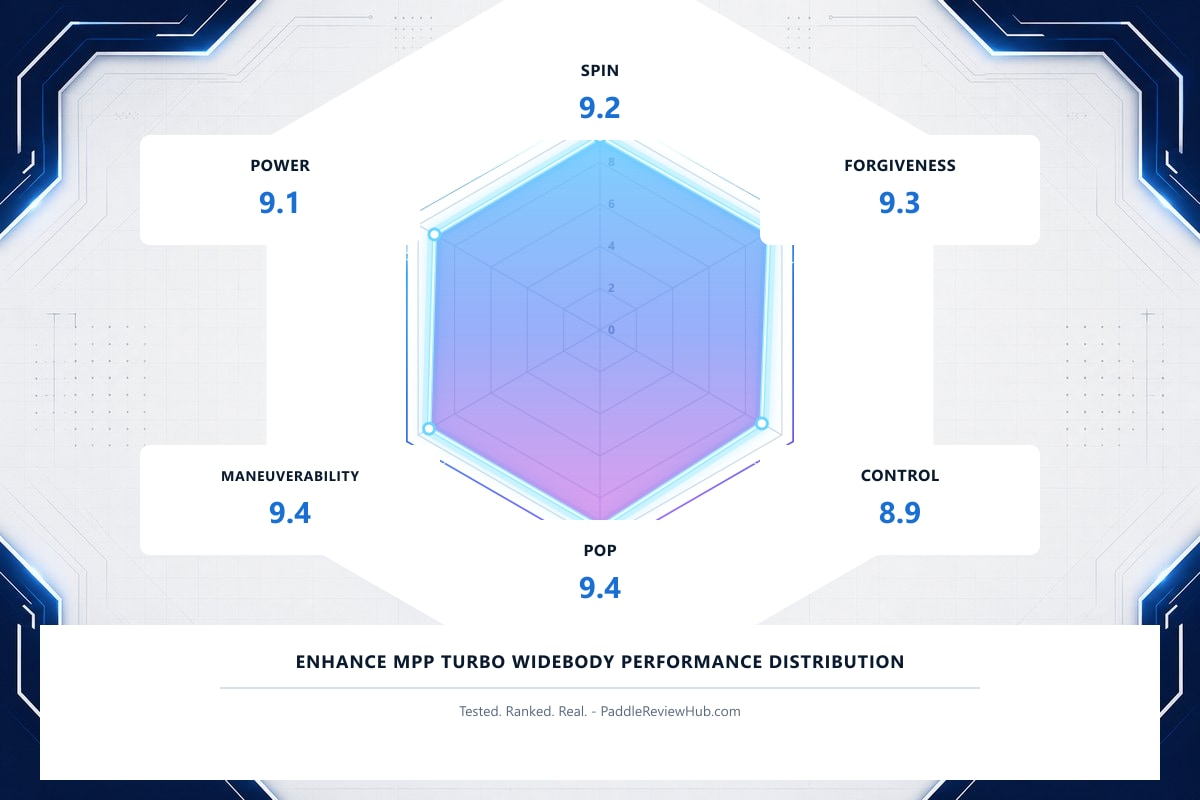
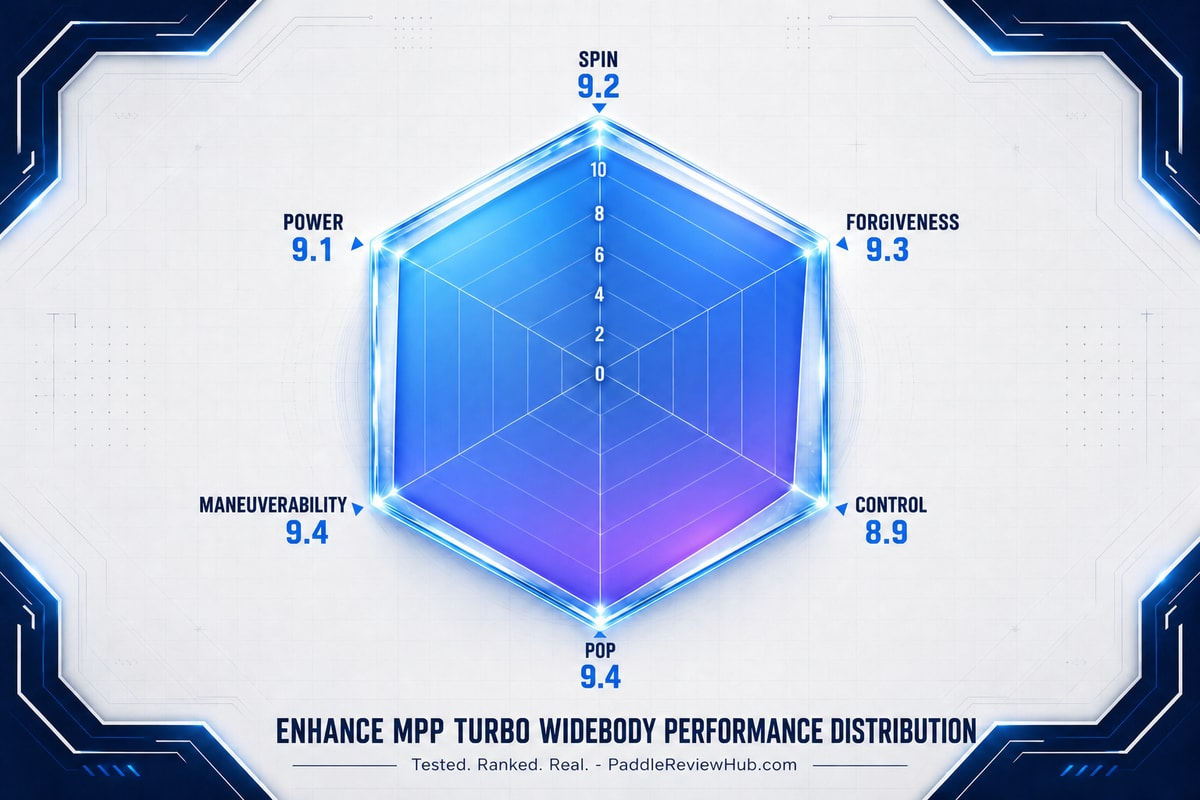
Regen all paddle radars with J2CR-style AI prompts.

diff --git a/scripts/package-ai-radars.ts b/scripts/package-ai-radars.ts
@@ -1,0 +1,166 @@
+/**
+ * 把 J2CR-style AI 雷達圖整理進 public/paddles，
+ * 同分數變體只改標題（不清分數，避免雙重文字）。
+ * 用法：npx tsx scripts/package-ai-radars.ts
+ */
+import fs from "node:fs";
+import path from "node:path";
+import sharp from "sharp";
+
+const ASSETS = path.join(
+  process.env.USERPROFILE || "",
+  ".cursor/projects/c-Users-user-PickleballWeb/assets",
+);
+const OUT = path.join(process.cwd(), "public", "paddles");
+
+function escapeXml(s: string) {
+  return s
+    .replace(/&/g, "&amp;")
+    .replace(/</g, "&lt;")
+    .replace(/>/g, "&gt;")
+    .replace(/"/g, "&quot;");
+}
+
+async function resizeFromAssets(srcName: string, destName: string) {
+  const src = path.join(ASSETS, srcName);
+  if (!fs.existsSync(src)) throw new Error(`缺少：${src}`);
+  const dest = path.join(OUT, destName);
+  await sharp(src)
+    .resize(1200, 800, { fit: "cover", position: "centre" })
+    .jpeg({ quality: 90, mozjpeg: true })
+    .toFile(dest);
+  console.log("COPY", destName);
+  return dest;
+}
+
+/** 只蓋底部標題區，分數完全不動 */
+async function retitle(
+  basePath: string,
+  destName: string,
+  title: string,
+  credit: string,
+) {
+  const bg = "#ffffff";
+  const svg = `<?xml version="1.0" encoding="UTF-8"?>
+<svg xmlns="http://www.w3.org/2000/svg" width="1200" height="800" viewBox="0 0 1200 800">
+  <rect x="55" y="620" width="1090" height="130" fill="${bg}"/>
+  <text x="600" y="665" text-anchor="middle" fill="#0a1a2e" font-size="18" font-weight="800" font-family="Segoe UI, Helvetica, Arial, sans-serif" letter-spacing="0.8">${escapeXml(title)}</text>
+  <line x1="240" y1="685" x2="960" y2="685" stroke="#c5d0e0" stroke-width="1.3"/>
+  <text x="600" y="715" text-anchor="middle" fill="#5a6a80" font-size="14" font-family="Segoe UI, Helvetica, Arial, sans-serif">${escapeXml(credit)}</text>
+</svg>`;
+  const overlay = await sharp(Buffer.from(svg)).png().toBuffer();
+  const dest = path.join(OUT, destName);
+  await sharp(basePath)
+    .composite([{ input: overlay, top: 0, left: 0 }])
+    .jpeg({ quality: 90, mozjpeg: true })
+    .toFile(dest);
+  console.log("TITLE", destName);
+}
+
+const PRH = "Tested. Ranked. Real. - PaddleReviewHub.com";
+
+async function main() {
+  fs.mkdirSync(OUT, { recursive: true });
+
+  // 直接對應的成品
+  await resizeFromAssets(
+    "enhance-mpp-widebody-radar.jpg",
+    "enhance-mpp-widebody-radar.jpg",
+  );
+  await resizeFromAssets(
+    "enhance-mpp-elongated-radar.jpg",
+    "enhance-mpp-elongated-radar.jpg",
+  );
+  // J6CR 已用同 prompt 產過，若 assets 有新版則覆蓋；否則保留 public
+  const j6Asset = path.join(ASSETS, "honolulu-j6cr-radar.jpg");
+  if (fs.existsSync(j6Asset)) {
+    await resizeFromAssets("honolulu-j6cr-radar.jpg", "honolulu-j6cr-radar.jpg");
+  }
+  await resizeFromAssets("rpm-q2-radar.jpg", "rpm-q2-radar.jpg");
+  await resizeFromAssets("pakle-fuse-radar.jpg", "pakle-fuse-radar.jpg");
+  await resizeFromAssets(
+    "luzz-bladz-longyuan-radar.jpg",
+    "luzz-bladz-longyuan-radar.jpg",
+  );
+  await resizeFromAssets("sypik-triton5-radar.jpg", "sypik-triton5-radar.jpg");
+  await resizeFromAssets(
+    "zocker-aspire-signature-radar.jpg",
+    "zocker-aspire-signature-radar.jpg",
+  );
+
+  // Inferno / Tornado 變體
+  const infernoBase = await resizeFromAssets(
+    "_tpl-luzz-inferno-radar.jpg",
+    "_tmp-inferno-base.jpg",
+  );
+  const infernoVariants: [string, string][] = [
+    ["luzz-inferno-zero-radar.jpg", "LUZZ INFERNO ZERO / FROZEN PERFORMANCE DISTRIBUTION"],
+    ["luzz-inferno-darkness-radar.jpg", "LUZZ INFERNO DARKNESS PERFORMANCE DISTRIBUTION"],
+    ["luzz-inferno-pink-purple-radar.jpg", "LUZZ INFERNO PINK PURPLE PERFORMANCE DISTRIBUTION"],
+    ["luzz-inferno-blue-flame-radar.jpg", "LUZZ INFERNO BLUE FLAME PERFORMANCE DISTRIBUTION"],
+    ["luzz-tornado-black-radar.jpg", "LUZZ TORNADO BLACK PERFORMANCE DISTRIBUTION"],
+    ["luzz-tornado-purple-radar.jpg", "LUZZ TORNADO PURPLE PERFORMANCE DISTRIBUTION"],
+  ];
+  for (const [out, title] of infernoVariants) {
+    await retitle(infernoBase, out, title, PRH);
+  }
+
+  // Cannon 變體
+  const cannonBase = await resizeFromAssets(
+    "_tpl-luzz-cannon-radar.jpg",
+    "_tmp-cannon-base.jpg",
+  );
+  const cannonVariants: [string, string][] = [
+    ["luzz-cannon-g1-black-radar.jpg", "LUZZ CANNON GEN 1 BLACK PERFORMANCE DISTRIBUTION"],
+    ["luzz-cannon-g1-collab-radar.jpg", "LUZZ CANNON GEN 1 CO-BRANDED PERFORMANCE DISTRIBUTION"],
+    ["luzz-cannon-g1-candy-radar.jpg", "LUZZ CANNON GEN 1 CANDY / HONEY PERFORMANCE DISTRIBUTION"],
+    ["luzz-cannon-g1-ex-radar.jpg", "LUZZ CANNON GEN 1 EX PERFORMANCE DISTRIBUTION"],
+    ["luzz-cannon-g2-black-radar.jpg", "LUZZ CANNON GEN 2 BLACK PERFORMANCE DISTRIBUTION"],
+    ["luzz-cannon-g2-collab-radar.jpg", "LUZZ CANNON GEN 2 CO-BRANDED PERFORMANCE DISTRIBUTION"],
+  ];
+  for (const [out, title] of cannonVariants) {
+    await retitle(cannonBase, out, title, PRH);
+  }
+
+  // Glider 變體
+  const gliderBase = await resizeFromAssets(
+    "_tpl-luzz-glider-radar.jpg",
+    "_tmp-glider-base.jpg",
+  );
+  const gliderVariants: [string, string][] = [
+    ["luzz-glider-2026-radar.jpg", "LUZZ GLIDER 2026 PERFORMANCE DISTRIBUTION"],
+    ["luzz-glider-signature-radar.jpg", "LUZZ GLIDER SIGNATURE PERFORMANCE DISTRIBUTION"],
+    ["luzz-glider-gatsby-radar.jpg", "LUZZ GLIDER GATSBY PERFORMANCE DISTRIBUTION"],
+  ];
+  for (const [out, title] of gliderVariants) {
+    await retitle(gliderBase, out, title, PRH);
+  }
+
+  // RPM V2 / Pink
+  const v2Base = await resizeFromAssets("_tpl-rpm-v2-radar.jpg", "_tmp-v2-base.jpg");
+  await retitle(v2Base, "rpm-v2-radar.jpg", "RPM V2 PERFORMANCE DISTRIBUTION", PRH);
+  await retitle(
+    v2Base,
+    "rpm-v2-pink-radar.jpg",
+    "RPM V2 PINK PERFORMANCE DISTRIBUTION",
+    PRH,
+  );
+
+  // cleanup temps
+  for (const f of [
+    "_tmp-inferno-base.jpg",
+    "_tmp-cannon-base.jpg",
+    "_tmp-glider-base.jpg",
+    "_tmp-v2-base.jpg",
+  ]) {
+    const p = path.join(OUT, f);
+    if (fs.existsSync(p)) fs.unlinkSync(p);
+  }
+
+  console.log("\nDone packaging AI radars.");
+}
+
+main().catch((e) => {
+  console.error(e);
+  process.exit(1);
+});
